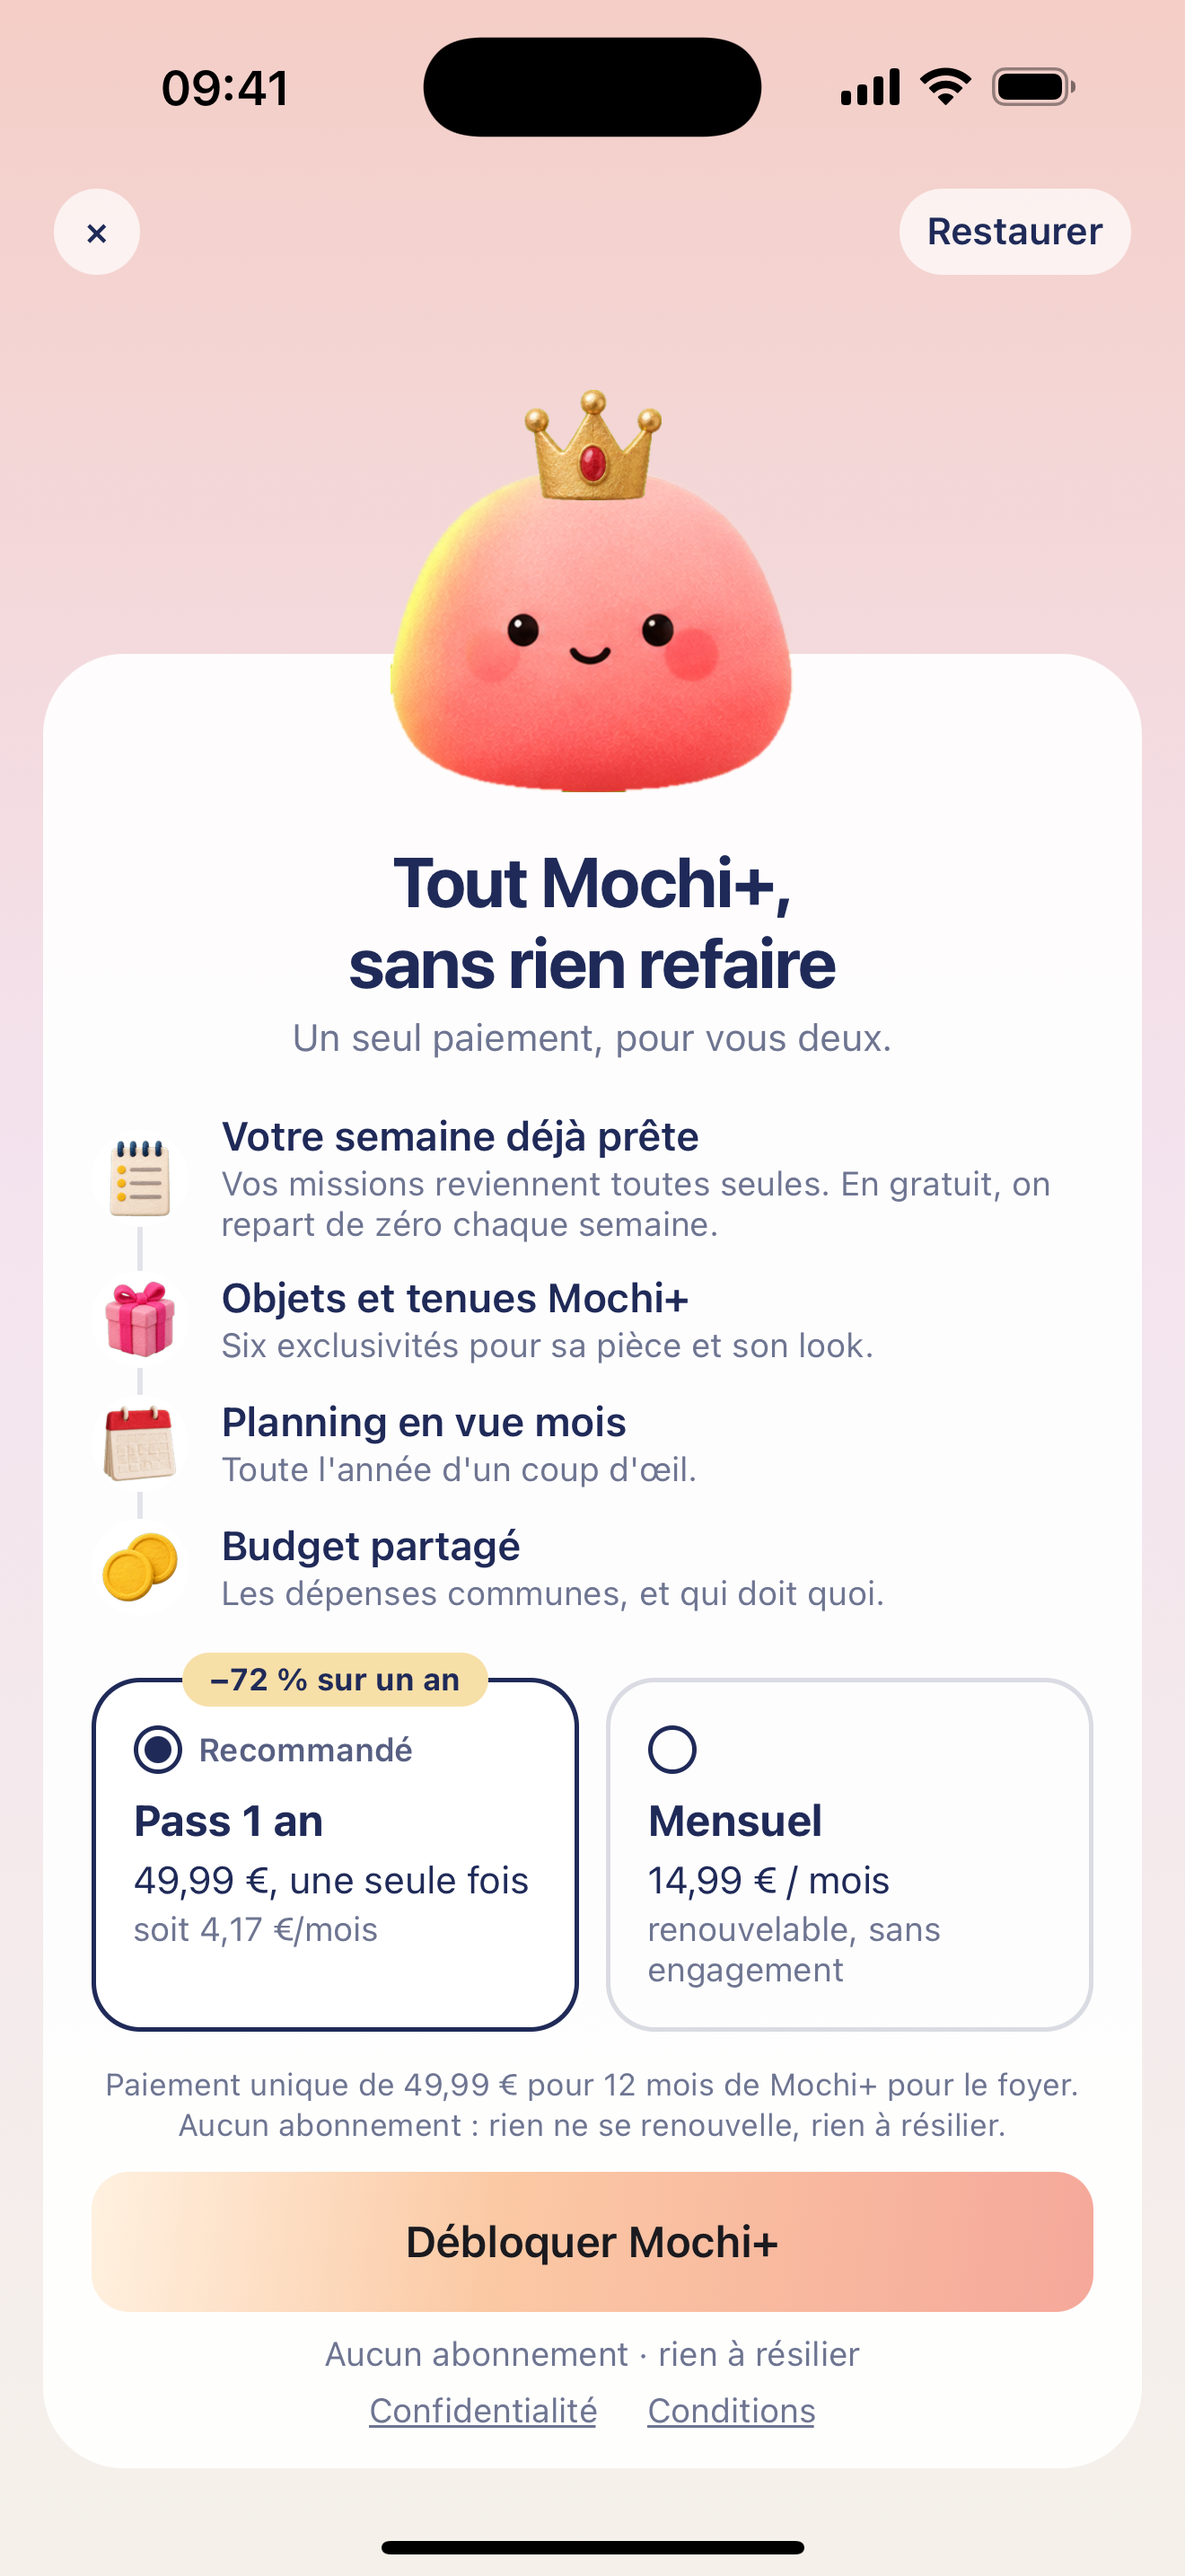
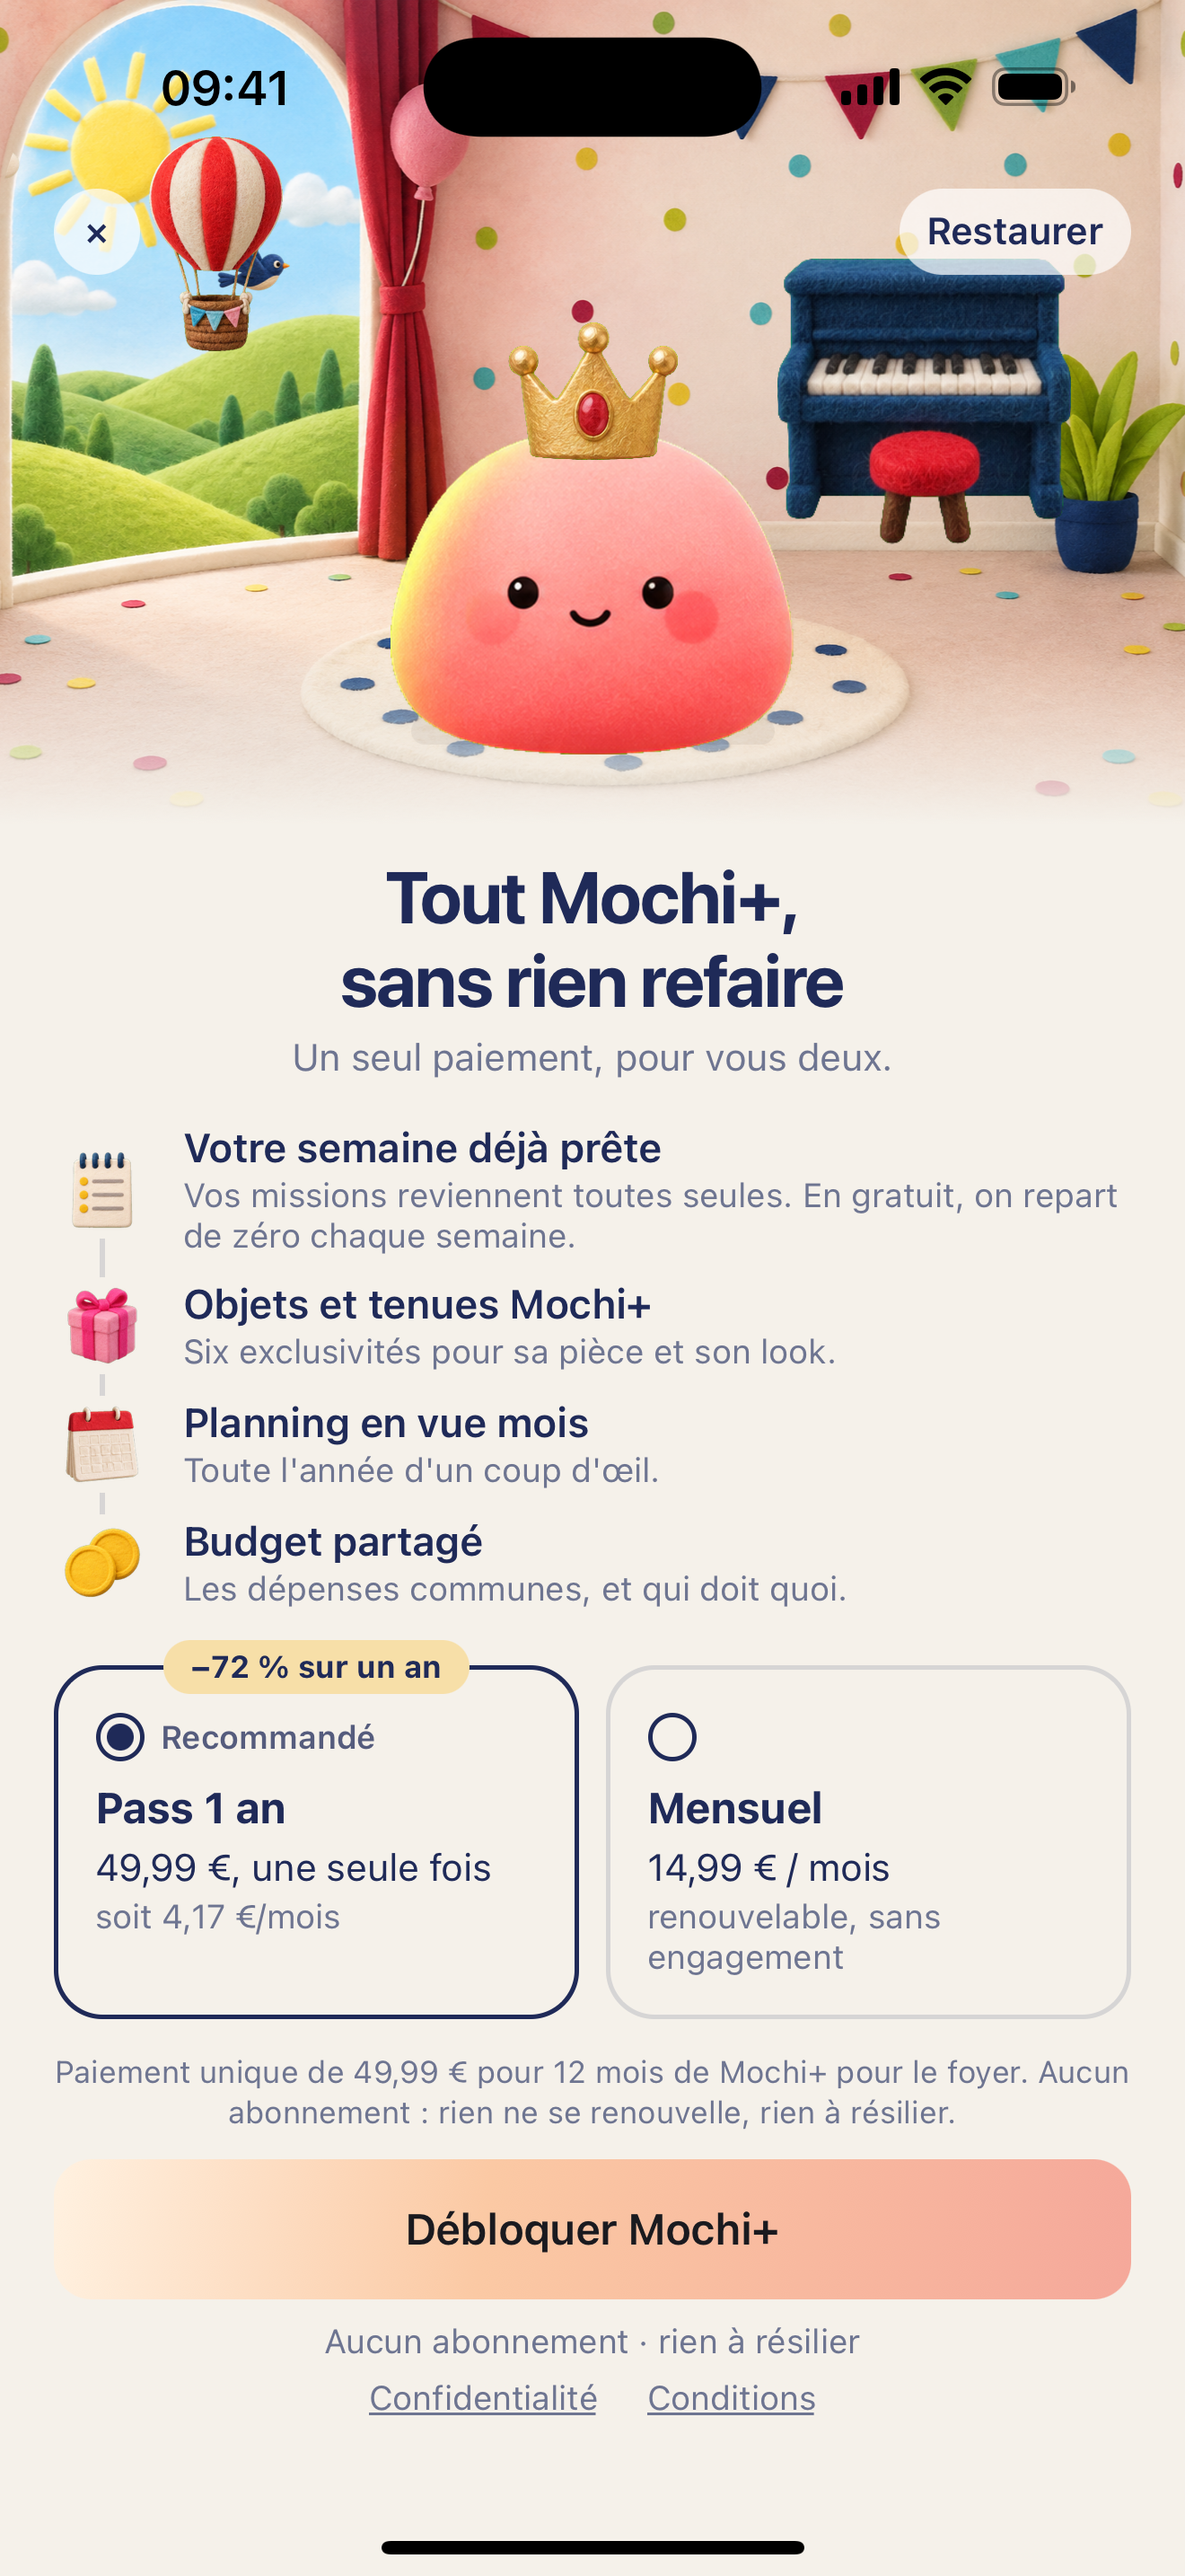
Paywall A : retour à la pièce de Mochi + frise, avec le contenu Mochi+ à jour

diff --git a/src/components/premium/paywall-layouts.js b/src/components/premium/paywall-layouts.js
@@ -5,6 +5,8 @@ import React from 'react';
 import { View, Text, Image, Pressable, StyleSheet, useWindowDimensions } from 'react-native';
 import { LinearGradient } from 'expo-linear-gradient';
 import { CTAPrimary } from '../ui';
+import { Scene } from '../mochi/scene';
+import { useTokens } from '../../theme-v3';
 import copy from '../../data/copy.json';
 
 const t = copy.paywall;
@@ -72,30 +74,33 @@ function TopBar({ d, color = INK, bg = 'rgba(255,255,255,0.7)' }) {
   );
 }
 
-// ── A · carte douce ─────────────────────────────────────────────────────────────
+// ── A · la pièce de Mochi + frise (première proposition, retenue par Jeanne le 10 nov 2026) ─────
 export function LayoutA({ d }) {
+  const T = useTokens();
+  const { height: SH } = useWindowDimensions();
+  const sceneH = Math.max(120 + d.insets.top, SH - 650);
   return (
-    <LinearGradient colors={['#F4CEC7', '#F3E3EE', CREAM]} locations={[0, 0.45, 1]} style={{ flex: 1 }}>
-      <TopBar d={d} />
-      <View style={{ flex: 1, justifyContent: 'flex-end', paddingHorizontal: 16, paddingBottom: d.insets.bottom + 6 }}>
-        <View style={{ backgroundColor: 'rgba(255,255,255,0.92)', borderRadius: 30, paddingHorizontal: 18, paddingBottom: 14, paddingTop: 70 }}>
-          <View style={{ position: 'absolute', top: -100, alignSelf: 'center' }}><CrownedMochi w={150} /></View>
-          <Text style={{ fontSize: 26, lineHeight: 30, fontWeight: '700', letterSpacing: -0.7, color: INK, textAlign: 'center' }}>{t.headline}</Text>
-          <Text style={{ fontSize: 14, color: '#6E7591', textAlign: 'center', marginTop: 4 }}>{t.subheadline}</Text>
-          <View style={{ marginTop: 14 }}>
-            <View style={{ position: 'absolute', left: 17, top: 20, bottom: 20, width: 2, backgroundColor: 'rgba(31,42,88,0.12)' }} />
-            {t.benefits.map(b => (
-              <View key={b.t} style={{ flexDirection: 'row', alignItems: 'center', gap: 12, paddingVertical: 5 }}>
-                <View style={{ width: 36, height: 36, borderRadius: 18, backgroundColor: '#FFFFFF', alignItems: 'center', justifyContent: 'center' }}><Image source={ICONS[b.icon]} style={{ width: 30, height: 30 }} /></View>
-                <View style={{ flex: 1 }}><Text style={{ fontSize: 15, fontWeight: '600', color: INK }}>{b.t}</Text><Text style={{ fontSize: 12.5, color: '#6E7591', marginTop: 1 }}>{b.s}</Text></View>
-              </View>
-            ))}
-          </View>
-          <View style={{ marginTop: 18 }}><SideOffers d={d} /></View>
-          <Footer d={d} />
-        </View>
+    <View style={{ flex: 1, backgroundColor: T.bg }}>
+      <View>
+        <Scene T={T} stage="mochi" mood="happy" lvl={4} height={sceneH} items={['montgolfiere', 'piano']} outfit="couronne" />
+        <TopBar d={d} />
       </View>
-    </LinearGradient>
+      <View style={{ paddingHorizontal: 20, paddingTop: 12 }}>
+        <Text style={{ fontSize: 27, lineHeight: 31, fontWeight: '700', letterSpacing: -0.8, color: T.ink, textAlign: 'center' }}>{t.headline}</Text>
+        <Text style={{ fontSize: 14, color: T.muted, textAlign: 'center', marginTop: 4 }}>{t.subheadline}</Text>
+        <View style={{ marginTop: 12 }}>
+          <View style={{ position: 'absolute', left: 17, top: 20, bottom: 20, width: 2, backgroundColor: T.line }} />
+          {t.benefits.map(b => (
+            <View key={b.t} style={{ flexDirection: 'row', alignItems: 'center', gap: 12, paddingVertical: 4 }}>
+              <View style={{ width: 36, height: 36, borderRadius: 18, backgroundColor: T.bg, alignItems: 'center', justifyContent: 'center' }}><Image source={ICONS[b.icon]} style={{ width: 30, height: 30 }} /></View>
+              <View style={{ flex: 1 }}><Text style={{ fontSize: 15, fontWeight: '600', color: T.ink }}>{b.t}</Text><Text style={{ fontSize: 12.5, color: T.muted, marginTop: 1 }}>{b.s}</Text></View>
+            </View>
+          ))}
+        </View>
+        <View style={{ marginTop: 16 }}><SideOffers d={d} ink={T.ink} muted={T.muted} line={T.line} cardBg={T.bg} /></View>
+        <Footer d={d} ink={T.ink} muted={T.muted} />
+      </View>
+    </View>
   );
 }
 
